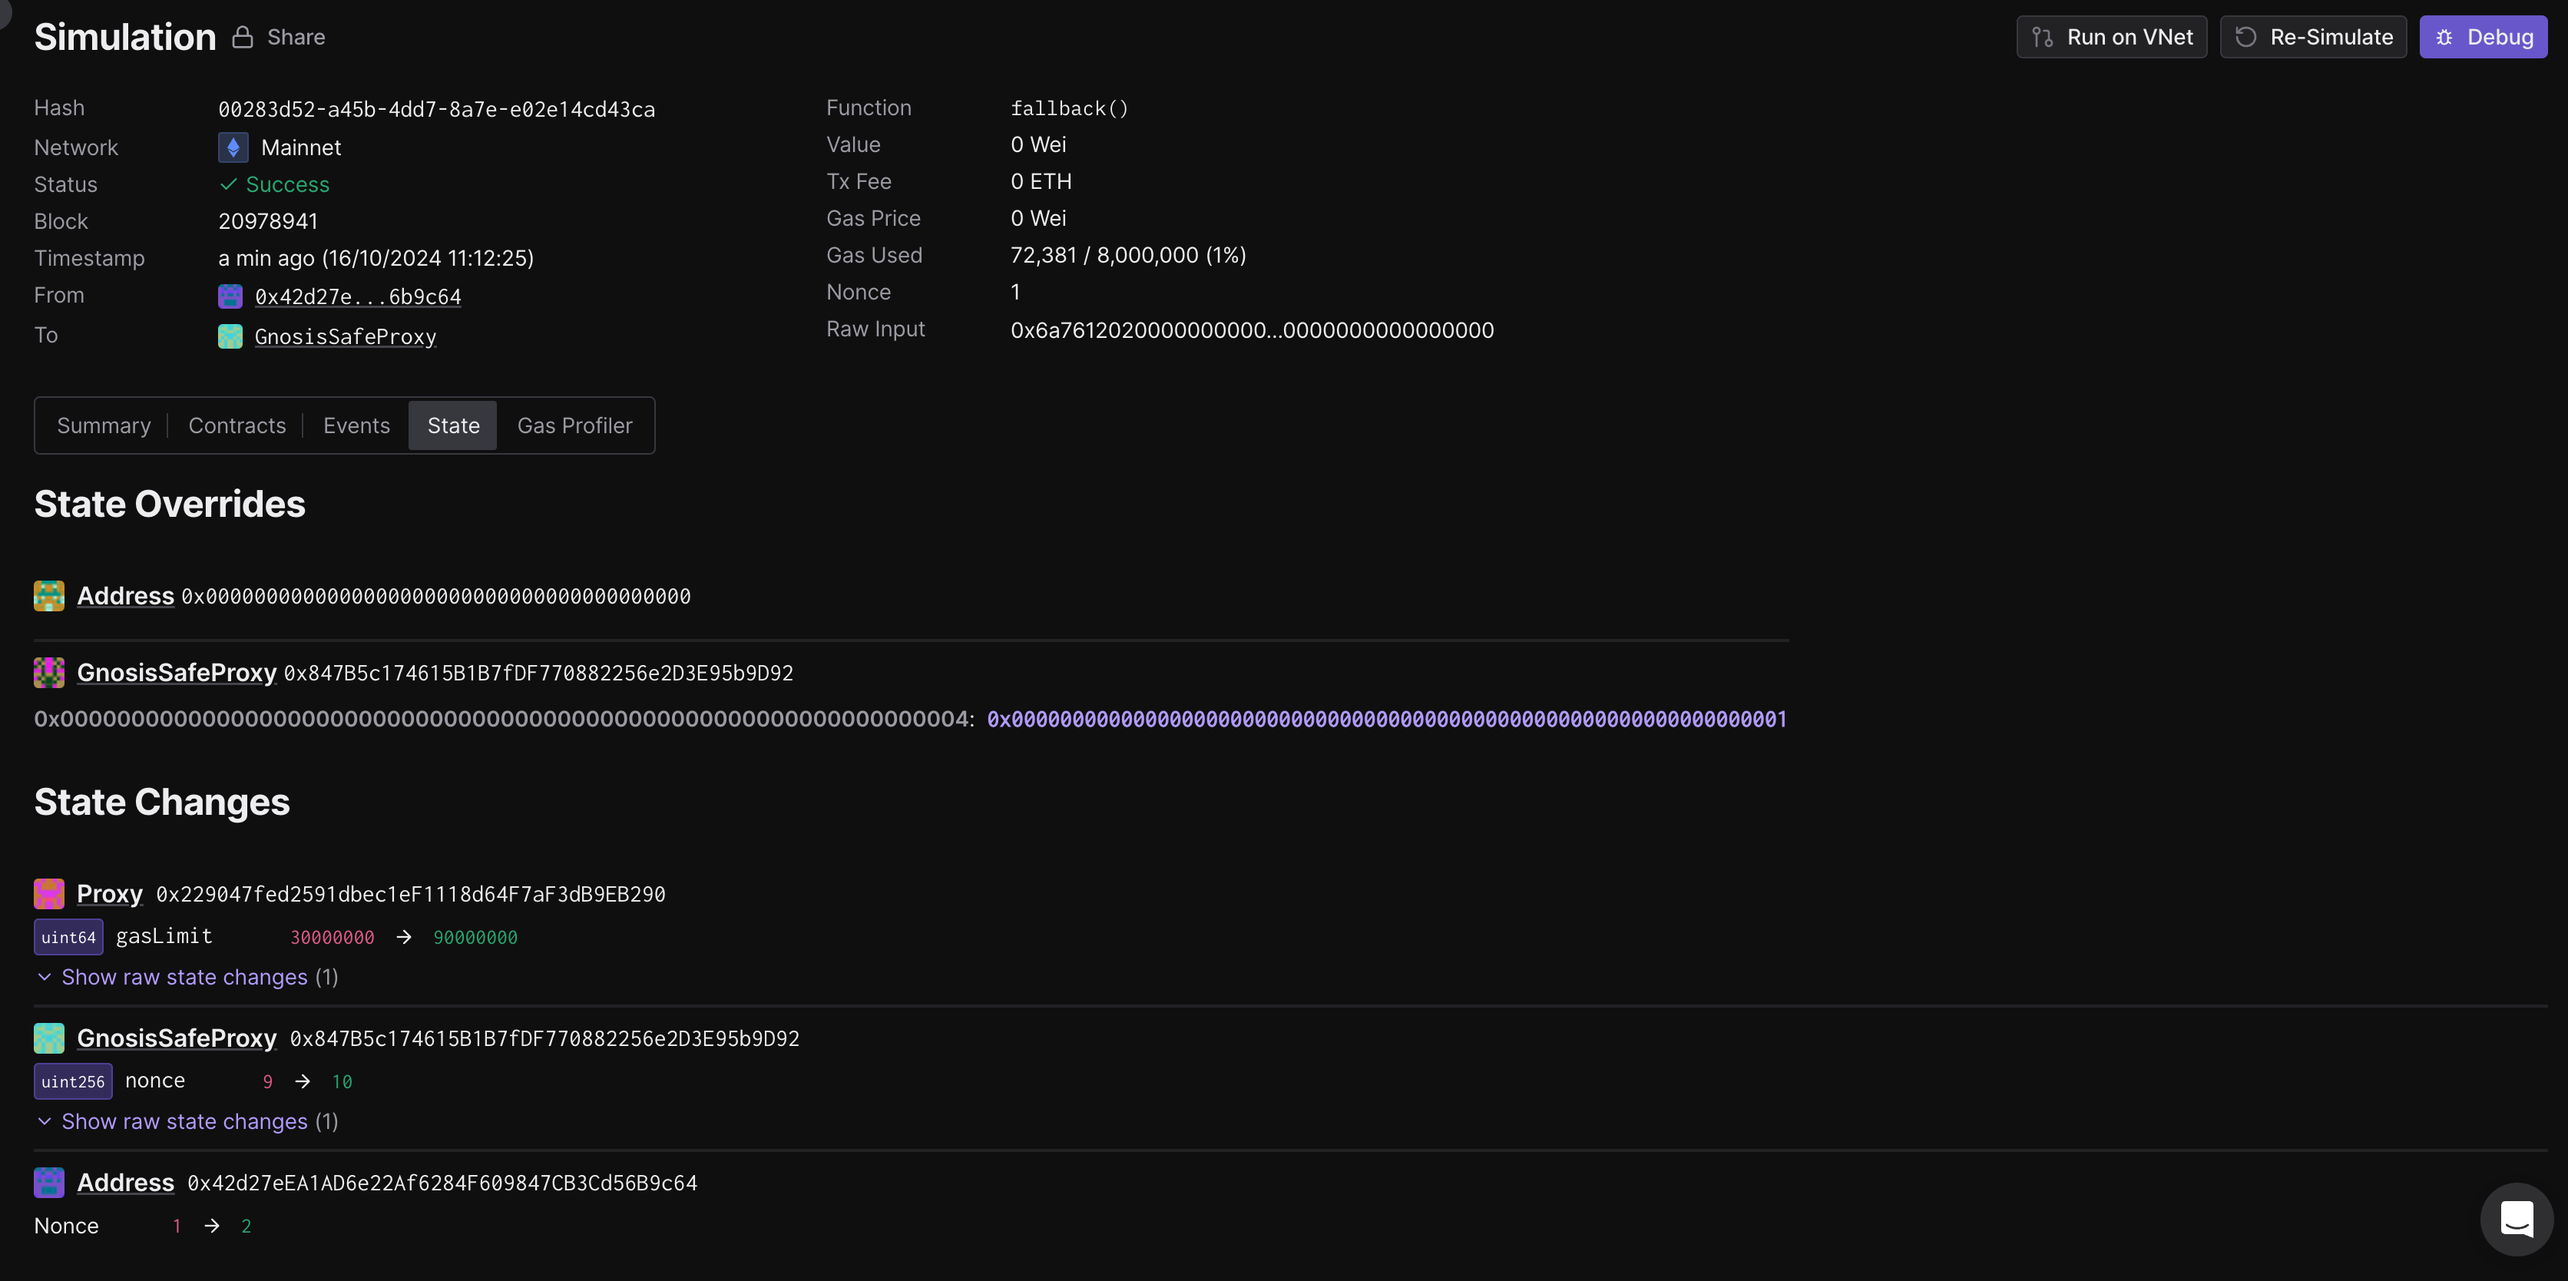
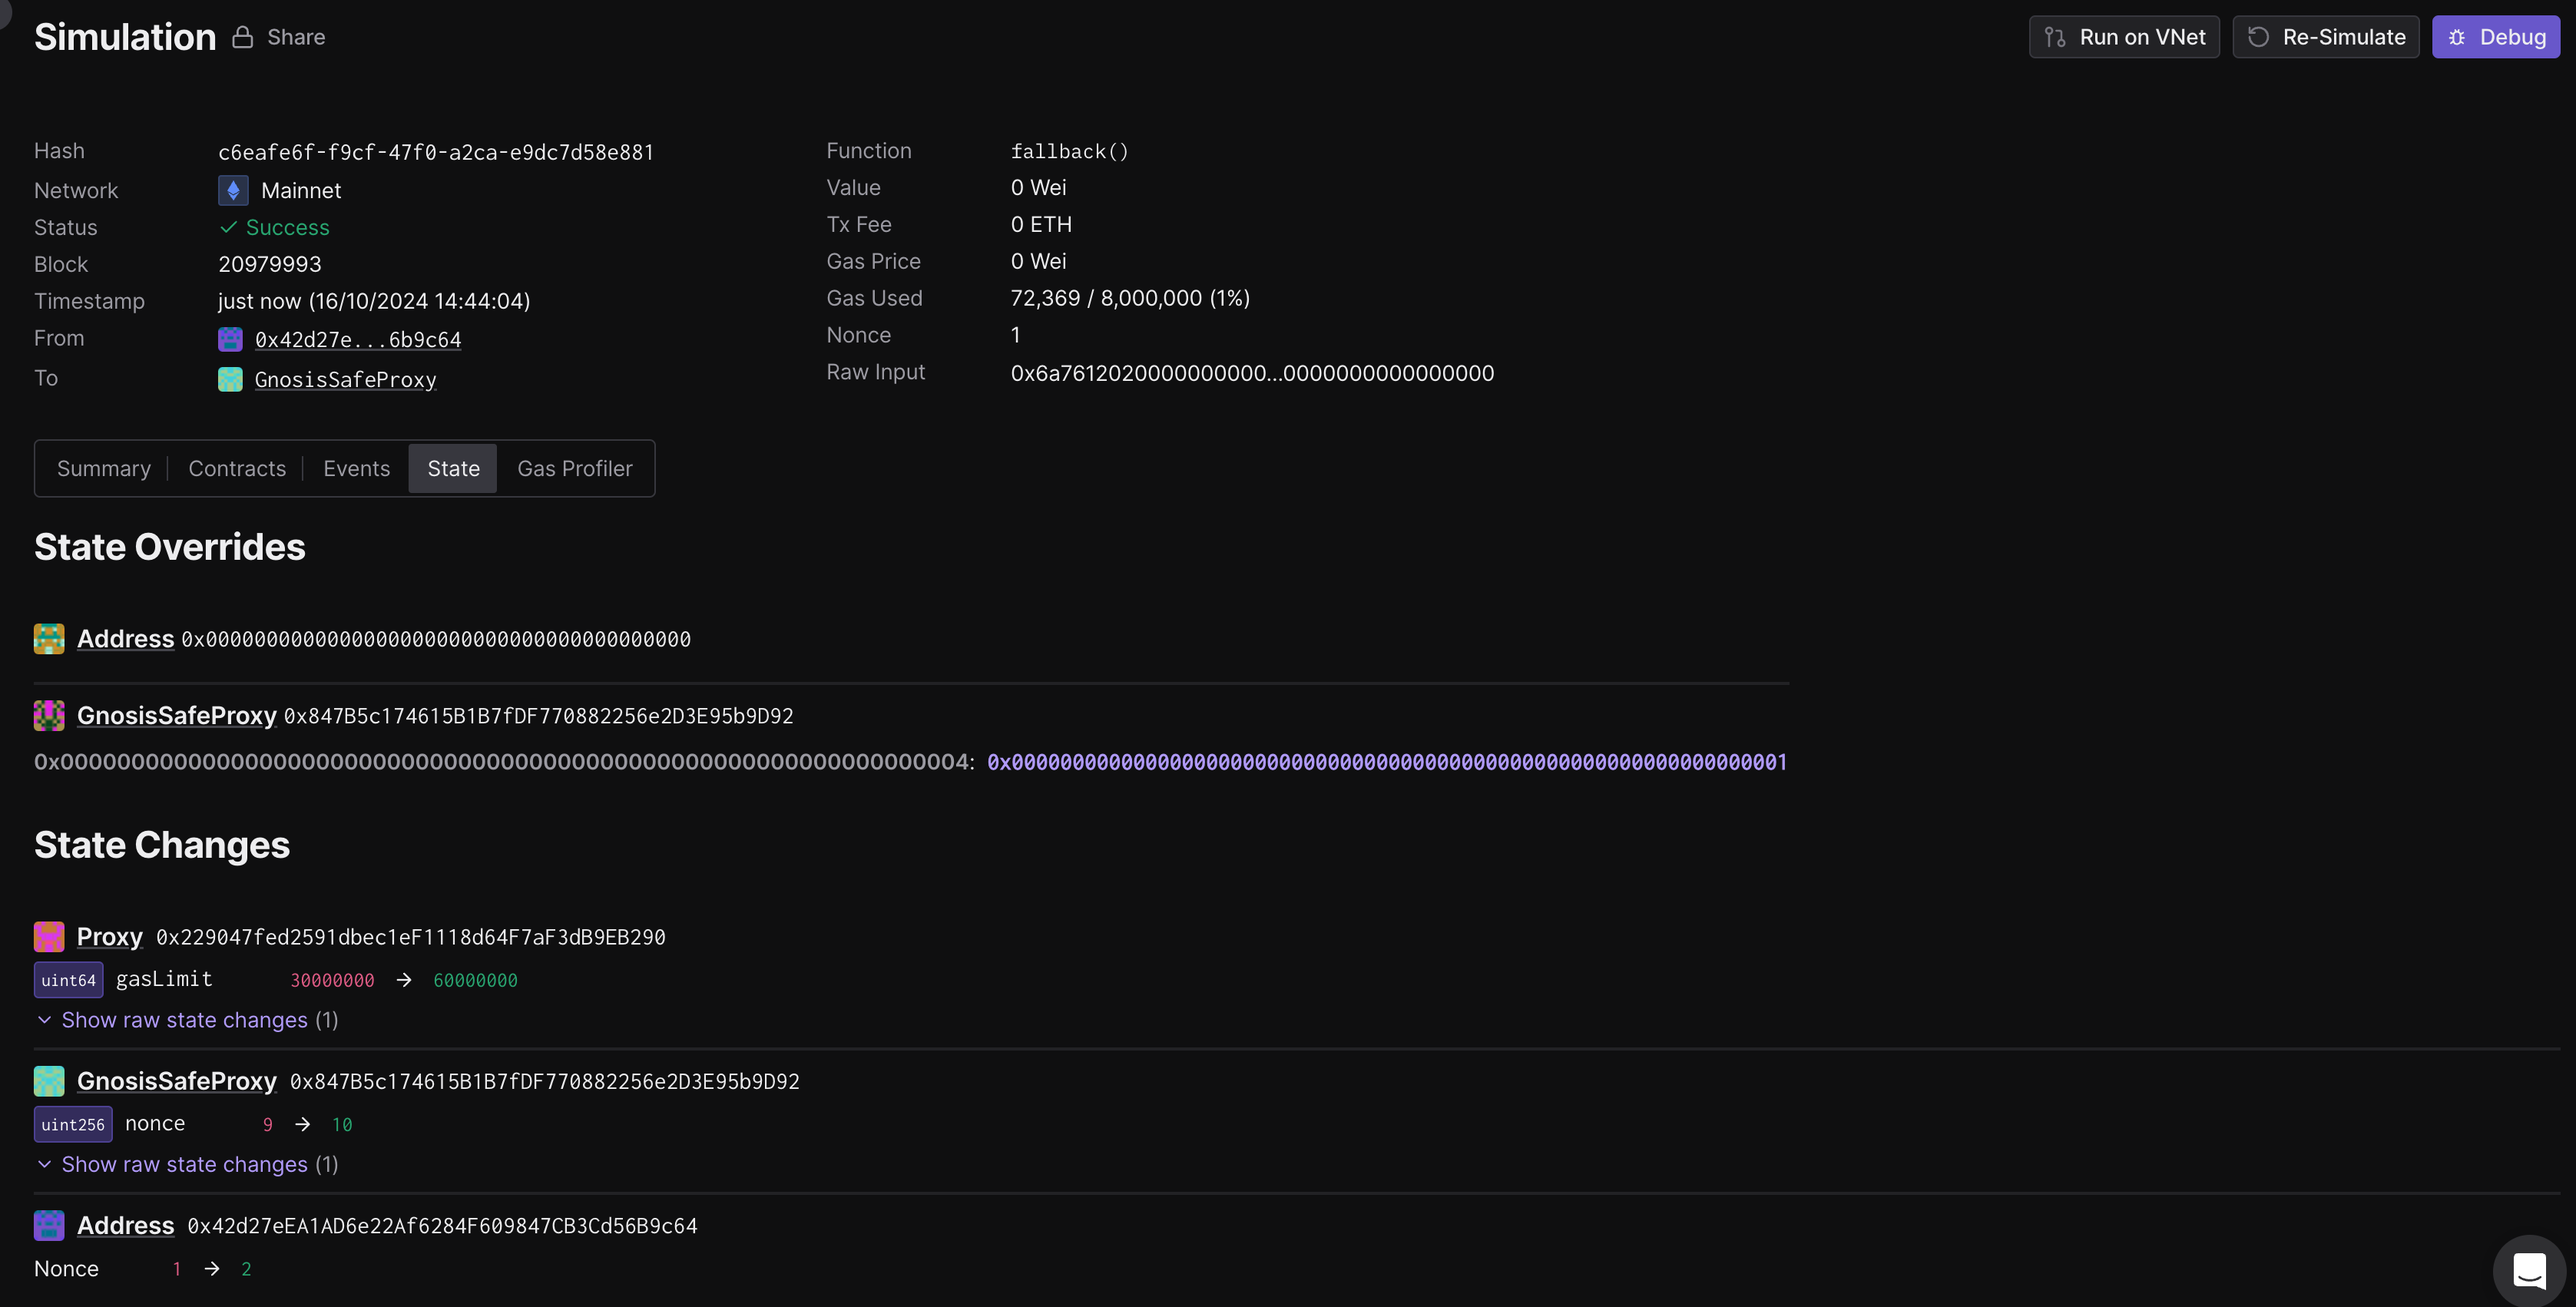
reformat VALIDATION.md, adjust gas target to 60M

diff --git a/tasks/eth/020-set-gas-target/VALIDATION.md b/tasks/eth/020-set-gas-target/VALIDATION.md
@@ -1,11 +1,51 @@
 ## Validations
+For each contract listed in the state diff, please verify that no contracts or state changes shown in the Tenderly diff are missing from this document. Additionally, please verify that for each contract:
 
-### State
+* The following state changes (and none others) are made to that contract. This validates that no unexpected state changes occur.
+* All key values match the semantic meaning provided, which can be validated using the storage layout links provided.
+
+### State Overrides
+
+#### `0x847B5c174615B1B7fDF770882256e2D3E95b9D92` GnosisSafe for SystemConfigOwner: 
+
[2 lines of base64/hex data omitted]
+
+### State Changes
+
+#### `0x229047fed2591dbec1eF1118d64F7aF3dB9EB290` SystemConfigProxy
+
[3 lines of base64/hex data omitted]
+* Meaning: updates `gasLimit` from `30_000_000` to `60_000_000`
+
+#### `0x847B5c174615B1B7fDF770882256e2D3E95b9D92` GnosisSafe for SystemConfigOwner
+
[3 lines of base64/hex data omitted]
+* Meaning: updates `nonce` from `9` to `10`
+
+#### `0x42d27eEA1AD6e22Af6284F609847CB3Cd56B9c64` tx sender
+
+* Key: `nonce`
+* Before: `1`
+* After: `2`
+* Meaning: updates `nonce` from `1` to `2`
+
 
 ![](./images/state.png)
 
 ### Events
 
-* ConfigUpdate: data is the encoded new gas limit (`0x55d4a80` = `90_000_000`)
+#### `0x229047fed2591dbec1eF1118d64F7aF3dB9EB290` SystemConfigProxy
+
+* ConfigUpdate: data is the encoded new gas limit (`0x3938700` = `60_000_000`)
+
+#### `0x847B5c174615B1B7fDF770882256e2D3E95b9D92` GnosisSafe for SystemConfigOwner
+
+* ExecutionSuccess
+
 
 ![](./images/events.png)

diff --git a/tasks/eth/020-set-gas-target/README.md b/tasks/eth/020-set-gas-target/README.md
@@ -4,18 +4,18 @@ Status: [DRAFT, NOT READY TO SIGN]
 
 ## Objective
 
-This is the playbook for updating the onchain gas limit of the `SystemConfig`. When combined with setting the `GETH_MINER_EFFECTIVEGASLIMIT = 30_000_000` env var on the sequencers, this has the effect of keeping the gas limit at 30Mgas/block and increasing the gas target from 5Mgas/block to 15Mgas/block.
+This is the playbook for updating the onchain gas limit of the `SystemConfig`. When combined with setting the `GETH_MINER_EFFECTIVEGASLIMIT = 30_000_000` env var on the sequencers, this has the effect of keeping the gas limit at 30Mgas/block and increasing the gas target from 5Mgas/block (2.5Mgas/sec) to 10Mgas/block (5Mgas/sec).
 
 ### Timing
 
-The transaction is scheduled for execution on October 17, 2024. This date has already been communicated to external parties.
+The transaction is scheduled for execution on October 22, 2024.
 
 ## Transaction creation
 
 The transaction was created in the root directory with
 
 ```
-just add-transaction tasks/eth/020-set-gas-target/input.json 0x229047fed2591dbec1eF1118d64F7aF3dB9EB290 'setGasLimit(uint64)' 90000000
+just add-transaction tasks/eth/020-set-gas-target/input.json 0x229047fed2591dbec1eF1118d64F7aF3dB9EB290 'setGasLimit(uint64)' 60000000
 ```
 
 ## Signing and execution
